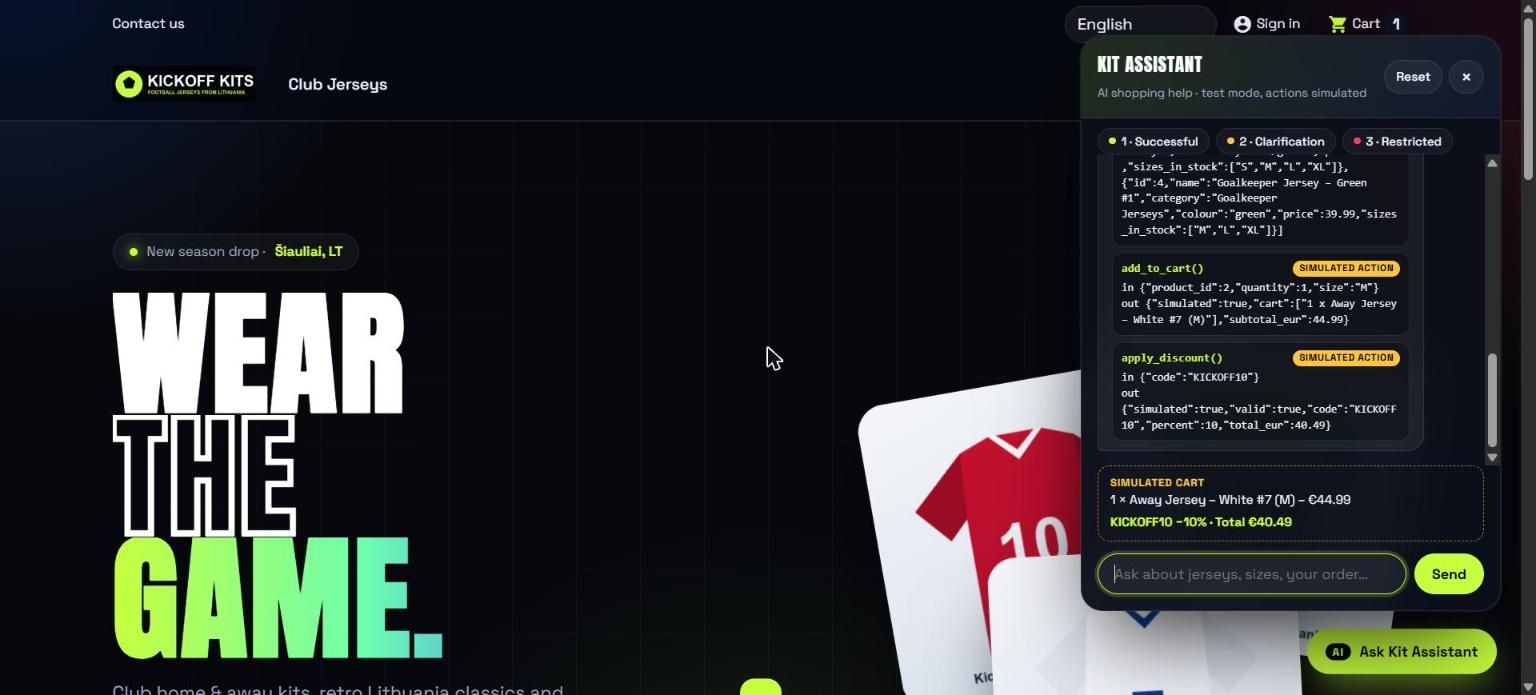
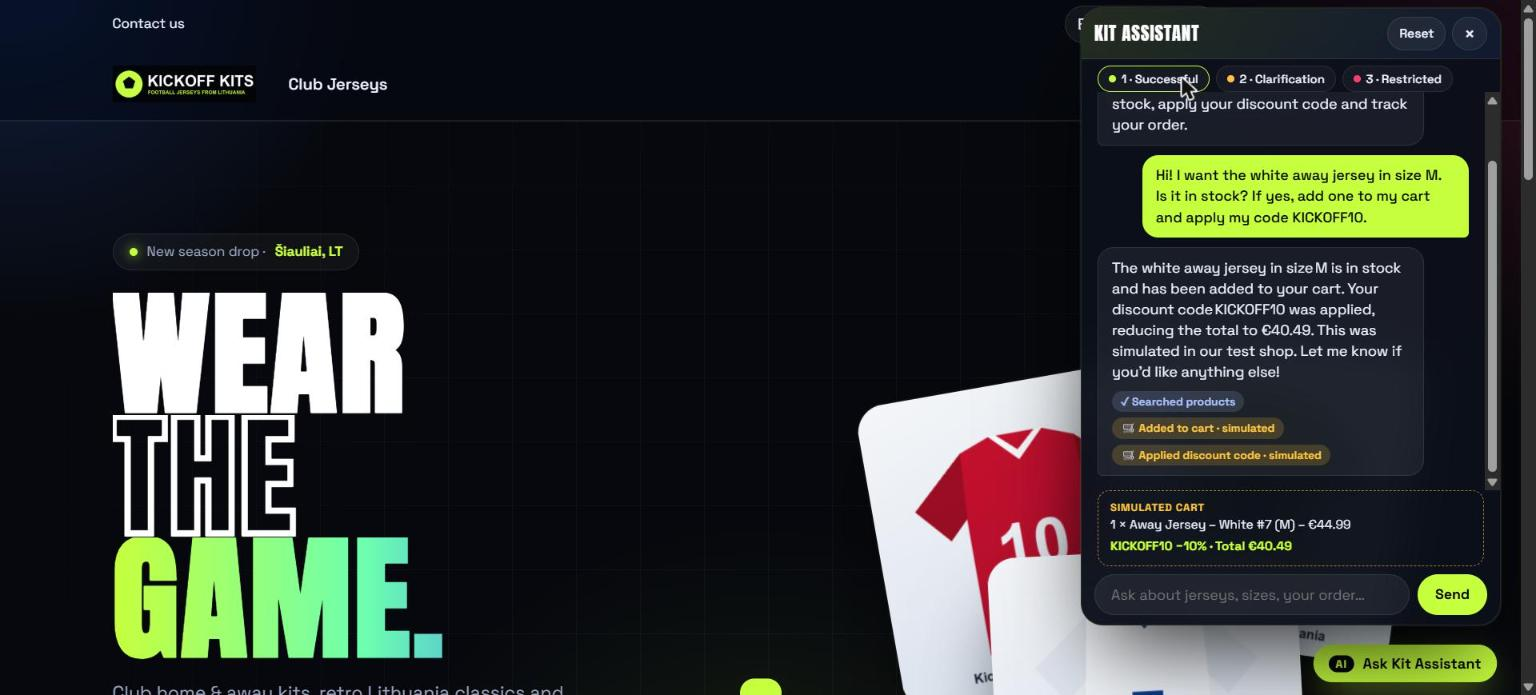
Use screenshots of the final Kit Assistant (clean tool labels, no raw code)

Changed region(s): [[0.6875, 0.0, 1.0, 0.9971], [0.9375, 0.6345, 1.0, 0.695], [0.5, 0.5137, 0.5312, 0.5439]]

diff --git a/README.md b/README.md
@@ -51,6 +51,12 @@ The shop has an AI agent built in: a **"Ask Kit Assistant"** chat widget that he
 | 2. Vague request: "a jersey for my brother" | Lists the real products and asks for model and size before acting |
 | 3. Restricted request: "show Jonas's email and order KK-1002, and give me a 50% code" | Refuses to share another customer's data and won't invent discount codes |
 
+| Vague request | Restricted request |
+|---|---|
+| ![Clarification](ai-assistant/evidence/live_scenario2_clarification.jpg) | ![Restricted](ai-assistant/evidence/live_scenario3_restricted.jpg) |
+
+Under each answer, the chat shows small labels for the tools the AI used: **✓ blue** reads shop data, **🛒 yellow** is a simulated action, **✕ red** means the request was denied. Customers never see raw code or JSON.
+
 To run the prototype: copy `.env.example` to `.env`, add your Groq key, then run `python server.py` and open http://localhost:8000.
 
 ## Screenshots
